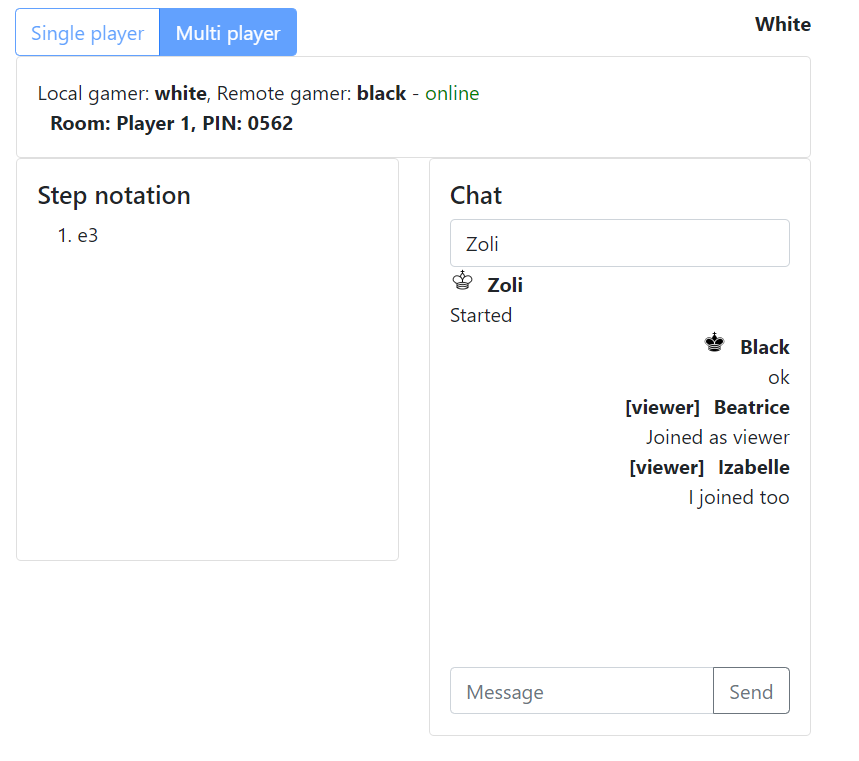
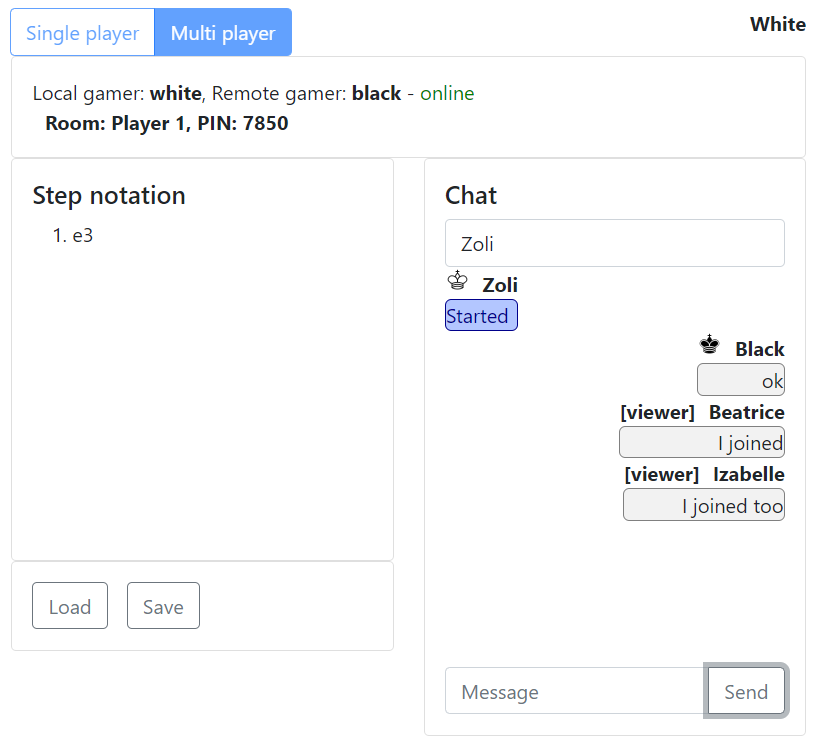
Readme

diff --git a/README.md b/README.md
@@ -21,6 +21,8 @@
 
 ![Angular Chess - chat](/angular-chess/src/assets/chess_6.PNG)
 
+![Angular Chess - load](/angular-chess/src/assets/chess_7.PNG)
+
 ### Behavior
 
 Chess pieces are placed on the board as an object through an initialization procedure.
@@ -63,6 +65,10 @@ If the player's pawn reaches the opponent's starting line, you can choose to exc
 - Játék mentése/visszatöktése (LocalStorage alapú tárolás)
 
 ![Angular Chess](/angular-chess/src/assets/chess_5.PNG)
+
+![Angular Chess - chat](/angular-chess/src/assets/chess_6.PNG)
+
+![Angular Chess - load](/angular-chess/src/assets/chess_7.PNG)
 
 ### Működés
 
